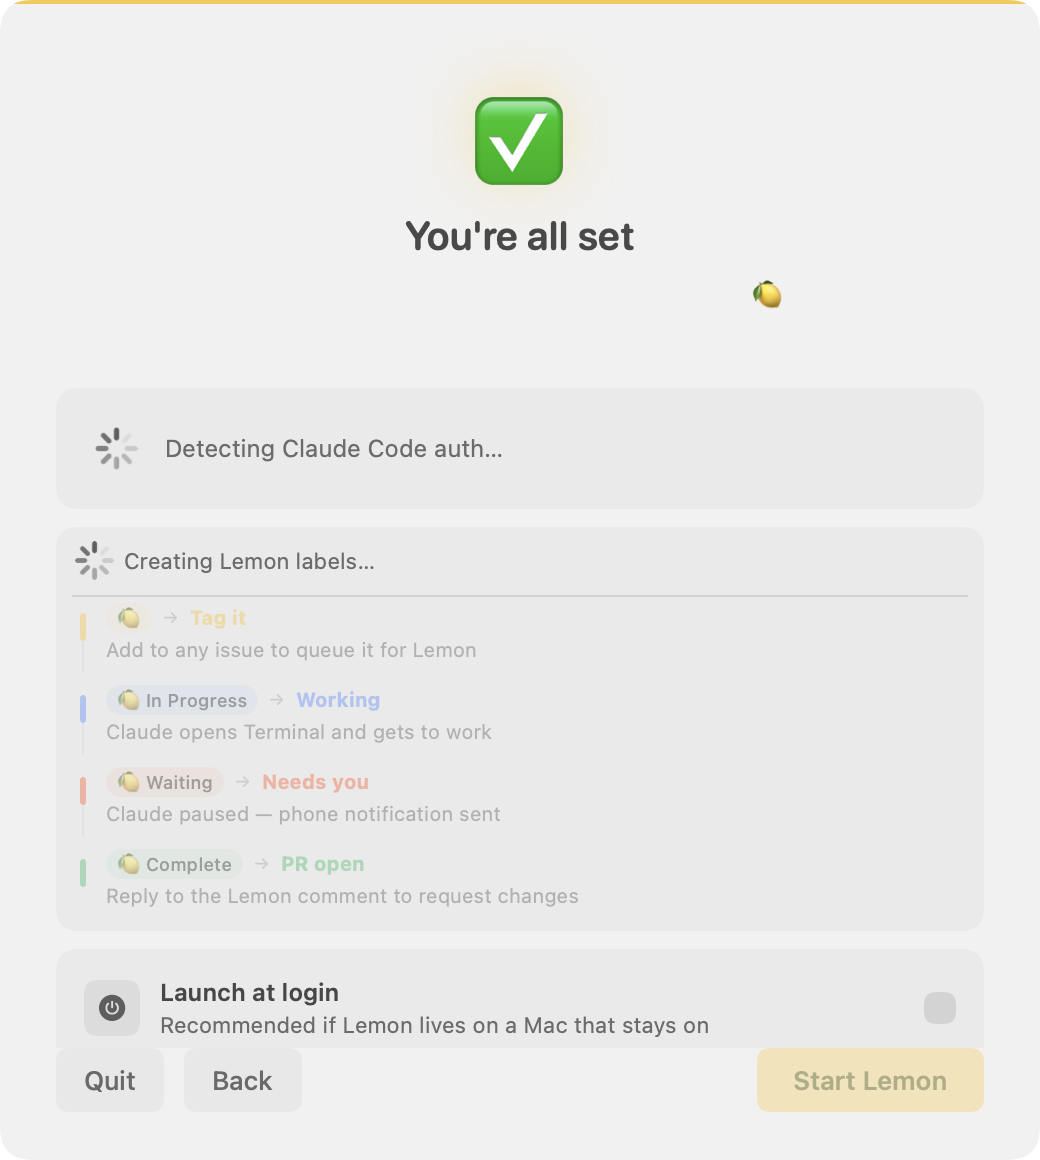
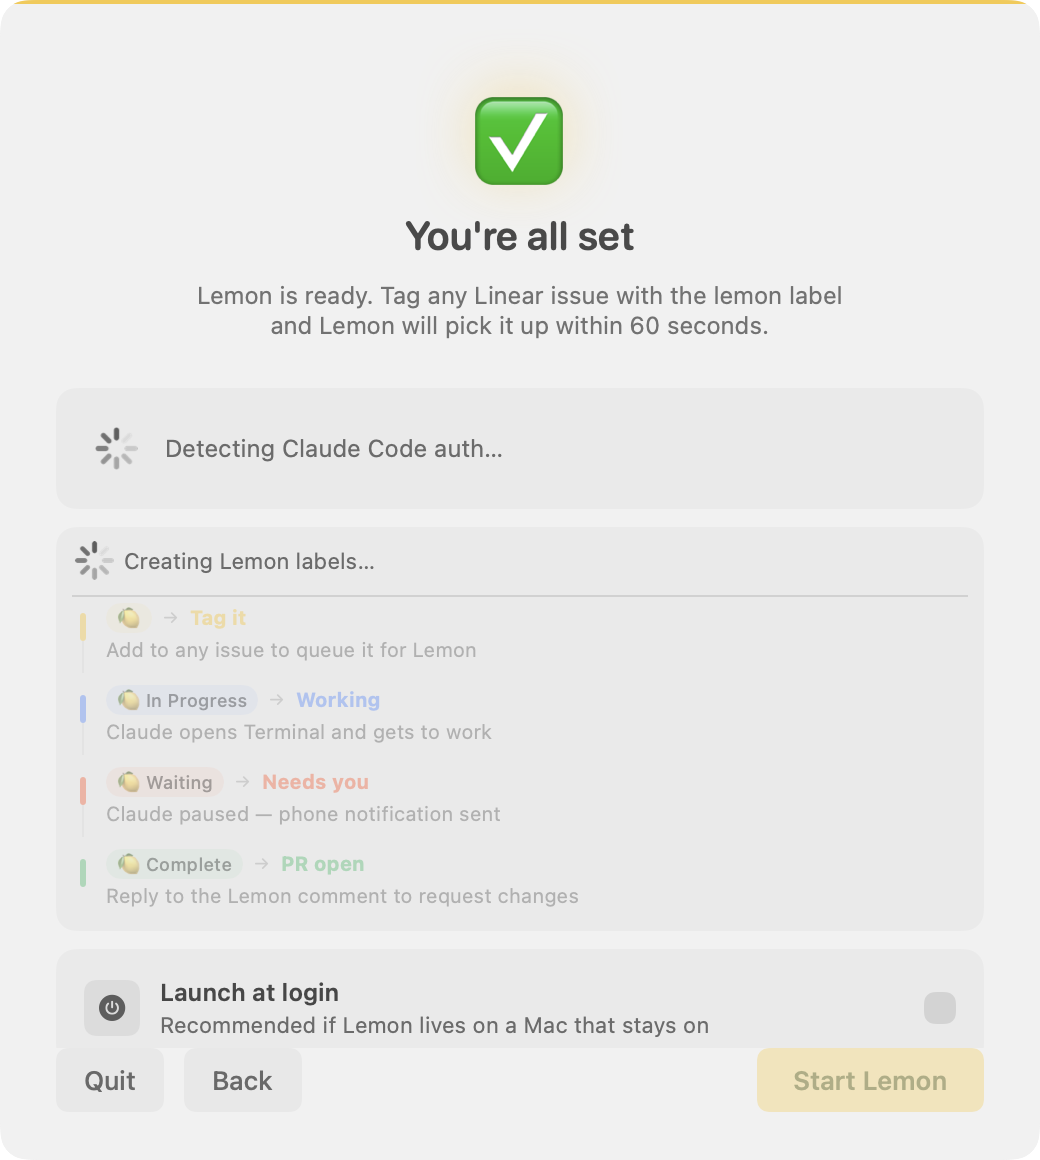
Big edit pass: tmux PATH bug, site polish, real screenshots, MLX credit
Bug fixes:
- WorktreeRunner.runSync + .shell now use zsh -l -c (login shell) so
  Homebrew's PATH on Apple Silicon (/opt/homebrew/bin) is sourced from
  .zprofile. The onboarding tool check already used -l and correctly
  found tmux; the runtime didn't, so a clean install hit "tmux not
  found" the moment a 🍋 session started, despite tmux being installed.
- OnboardingView Ready subtitle: dropped the 🍋 emoji that caused a
  smoke-render artifact (emoji glyph painted before surrounding system
  text reached the buffer, leaving a stray lemon hovering on its own).

Site copy + structure:
- License: MIT → Apache 2.0 across dateline, footer, closing pitch.
  LICENSE file was already Apache 2.0; only the site had stale refs.
- Stats strip "0 keys leave / Linear is the only egress" was wrong —
  Claude Code calls GitHub etc. via your session. Reworded to "0 lines
  of telemetry. Lemon's only network call is Linear; everything else
  is your Claude session."
- Workflow step 3: "Reply when you're back at your desk" → "Reply on
  a walk, or pick up the terminal session back at your desk."
- "Local AI is not optional" → "Made for Apple silicon." Less prudish,
  more truthful — local model is the whole point and Apple silicon is
  what makes it cheap. Body copy expanded to credit the silence
  detector + obvious-confirmation auto-accept + unstick-dumb-prompts
  jobs explicitly.
- Dedication mark (lemon ❤ Linear) moved from BEFORE the 4-step grid
[…]

Changed region(s): [[0.1846, 0.2483, 0.8, 0.3103]]

diff --git a/docs/index.html b/docs/index.html
@@ -138,18 +138,22 @@
   /* ---------- Hero — magazine cover ---------- */
 
   .hero {
-    padding: 16px 0 80px;
+    padding: 8px 0 72px;
     position: relative;
   }
   .hero-grid {
     display: grid;
-    grid-template-columns: 7fr 5fr;
-    gap: 64px;
+    grid-template-columns: 1.15fr 1fr;
+    gap: 52px;
     align-items: center;
   }
   .hero-photo {
     position: relative;
     margin: 0;
+    /* let the photo lean slightly into the gutter so the lemon doesn't get
+       isolated against the right column's text wall */
+    margin-left: -3%;
+    margin-right: -2%;
   }
   .hero-photo img {
     width: 100%;
@@ -181,30 +185,31 @@
   .hero-stand {
     font-family: var(--display);
     font-weight: 500;
-    font-variation-settings: "opsz" 72;
-    font-size: clamp(28px, 3.5vw, 44px);
-    line-height: 1.15;
-    letter-spacing: -0.018em;
+    font-variation-settings: "opsz" 60;
+    font-size: clamp(22px, 2.6vw, 32px);
+    line-height: 1.2;
+    letter-spacing: -0.012em;
     color: var(--ink);
-    margin-bottom: 22px;
+    margin-bottom: 18px;
+    max-width: 22ch;
   }
   .hero-stand strong {
     font-weight: 700;
     font-style: italic;
     color: var(--lemon-deep);
-    font-variation-settings: "opsz" 96;
+    font-variation-settings: "opsz" 72;
   }
   .hero-coda {
     font-family: var(--display);
     font-style: italic;
     font-weight: 400;
-    font-size: clamp(18px, 2vw, 24px);
-    line-height: 1.3;
+    font-size: clamp(15px, 1.5vw, 19px);
+    line-height: 1.4;
     color: var(--ink-soft);
     border-left: 3px solid var(--lemon);
-    padding-left: 16px;
-    margin-bottom: 30px;
-    max-width: 36ch;
+    padding-left: 14px;
+    margin-bottom: 26px;
+    max-width: 32ch;
   }
   .hero-coda em {
     font-style: italic;
@@ -438,6 +443,33 @@
     gap: 14px;
   }
   .plate-caption b { color: var(--ink); font-weight: 700; }
+
+  /* ---------- Exhibit (centered solo plate) ---------- */
+
+  .exhibit {
+    padding: 12px 0;
+  }
+  .exhibit-caption {
+    font-family: var(--display);
+    font-style: italic;
+    font-weight: 400;
+    font-size: 18px;
+    line-height: 1.45;
+    color: var(--ink-soft);
+    text-align: center;
+    max-width: 50ch;
+    margin: 28px auto 0;
+  }
+  .exhibit-caption em {
+    font-family: var(--mono);
+    font-style: normal;
+    font-size: 13px;
+    text-transform: uppercase;
+    letter-spacing: 0.08em;
+    color: var(--ink);
+    border-bottom: 1px dashed var(--rule);
+    padding-bottom: 1px;
+  }
 
   /* ---------- Code block (install) ---------- */
 
@@ -805,17 +837,12 @@
     <div class="dateline reveal d3">
       <span><b>Issue:</b> No. 1 · Menu-bar glue for Claude Code + Linear</span>
       <span><b>Stack:</b> SwiftUI · Linear API · Claude Code · MLX</span>
-      <span><b>License:</b> MIT</span>
+      <span><b>License:</b> Apache 2.0</span>
     </div>
   </section>
 
   <!-- ============== THE 🍋 WORKFLOW ============== -->
   <section id="workflow" aria-labelledby="lifecycle-h">
-    <figure class="dedication" aria-label="Lemon loves Linear">
-      <img src="img/lemon-linear.png" alt="A lemon, a heart, the Linear mark — Lemon loves Linear." />
-      <figcaption>For Linear, who already knows what work needs doing.</figcaption>
-    </figure>
-
     <span class="eyebrow">The 🍋 Workflow</span>
     <h2 id="lifecycle-h" class="section-heading">Four labels, one feedback loop.</h2>
     <p class="section-lede">
@@ -845,7 +872,7 @@
         <div class="chip warn">🍋 Waiting</div>
         <div class="label">Stuck</div>
         <h3>It calls for you.</h3>
-        <p>Hit an ambiguous choice? Claude pauses, the label flips, your phone gets a push. Reply when you&rsquo;re back at your desk.</p>
+        <p>Hit an ambiguous choice? Claude pauses, the label flips, your phone gets a push. Reply on a walk, or pick up the terminal session back at your desk.</p>
       </article>
       <article class="step reveal d3">
         <span class="num">04</span>
@@ -855,6 +882,11 @@
         <p>Lemon posts a Linear comment with the PR link and a one-paragraph summary. Reply to the comment to request revisions.</p>
       </article>
     </div>
+
+    <figure class="dedication" aria-label="Lemon loves Linear">
+      <img src="img/lemon-linear.png" alt="A lemon, a heart, the Linear mark — Lemon loves Linear." />
+      <figcaption>For Linear, who already knows what work needs doing.</figcaption>
+    </figure>
   </section>
 
   <!-- ============== HOW IT WORKS ============== -->
@@ -883,20 +915,20 @@
         </div>
       </div>
       <div class="plate" style="transform: rotate(-1deg);">
-        <img src="img/list.png" alt="Lemon&rsquo;s menu bar popover showing active and recent sessions" />
+        <img src="img/live-list.png" alt="The Lemon popover on a real desktop with the menu bar visible. HRP-37 is in Planning state. Next poll in 13s." />
         <div class="plate-caption">
-          <span><b>Plate 1.</b> Popover &mdash; active &amp; recent</span>
-          <span>Citrus accent on the trigger bar.</span>
+          <span><b>Plate 1.</b> Popover &mdash; live, with menu bar grounding</span>
+          <span>HRP-37 picked up, planning.</span>
         </div>
       </div>
     </div>
 
     <div class="spread flip" style="margin-top: 100px;">
       <div class="plate flip" style="transform: rotate(0.8deg);">
-        <img src="img/detail-executing.png" alt="A session detail showing live console output, AI summary, and Stop / Join controls" />
+        <img src="img/live-detail.png" alt="Session detail for HRP-37 mid-planning. The console shows [lemon] starting session and the discovered repos." />
         <div class="plate-caption">
-          <span><b>Plate 2.</b> Session detail</span>
-          <span>Stream of <code style="font-family:var(--mono);color:var(--lemon-deep)">[lemon]</code> and <code style="font-family:var(--mono);color:#3a7a4a">[gemma]</code> lines.</span>
+          <span><b>Plate 2.</b> Session detail &mdash; mid-planning</span>
+          <span>Live <code style="font-family:var(--mono);color:var(--lemon-deep)">[lemon]</code> lines, Join + Stop ready.</span>
         </div>
       </div>
       <div class="spread-text">
@@ -938,7 +970,7 @@
       </div>
       <div class="stat reveal d3">
         <div class="num">0</div>
-        <div class="label">Keys leave your machine.<br/>Linear is the only egress.</div>
+        <div class="label">Lines of telemetry.<br/>Lemon&rsquo;s only network call is Linear; everything else is your Claude session.</div>
       </div>
     </div>
   </section>
@@ -956,11 +988,13 @@
 
     <div class="spread" style="margin-top: 36px;">
       <div class="spread-text">
-        <h2>Local AI is <em>not optional.</em></h2>
+        <h2>Made for <em>Apple silicon.</em></h2>
         <p>
-          The whole point of Lemon is the silence detector. Without a local model
-          watching, you don&rsquo;t get the 🍋&nbsp;Waiting auto-pause. So onboarding
-          gates Continue on a downloaded Gemma model and a SwiftLM binary.
+          A big chunk of Lemon&rsquo;s value is the silence detector &mdash;
+          plus auto-accepting obvious confirmations, plus unsticking
+          dumb prompts that Claude can&rsquo;t see past on its own. All of that
+          needs <strong>a local model running</strong>, which is why
+          onboarding gates Continue on a downloaded Gemma and a SwiftLM binary.
         </p>
         <p>
           Both are pulled inside the wizard. The model is from
@@ -976,7 +1010,7 @@
           ready to paste into Console.app.
         </div>
       </div>
-      <div class="plate" style="transform: rotate(-0.6deg);">
+      <div class="plate" style="transform: rotate(-0.6deg); max-width: 380px; margin-left: auto;">
         <img src="img/onboarding-localai.png" alt="The Local AI onboarding step with Gemma 4B and SwiftLM downloads" />
         <div class="plate-caption">
           <span><b>Plate 3.</b> Local AI setup</span>
@@ -986,7 +1020,7 @@
     </div>
 
     <div class="spread flip" style="margin-top: 90px;">
-      <div class="plate flip" style="transform: rotate(1deg);">
+      <div class="plate flip" style="transform: rotate(1deg); max-width: 380px;">
         <img src="img/onboarding-ready.png" alt="The final Ready step showing Linear label workflow and Claude auth detection" />
         <div class="plate-caption">
           <span><b>Plate 4.</b> Ready check</span>
@@ -1006,6 +1040,32 @@
           Lemon adopts them (fetch-or-create). Colors are advisory — your existing
           ones win.
         </div>
+      </div>
+    </div>
+  </section>
+
+  <!-- ============== SETTINGS SPREAD ============== -->
+  <section aria-labelledby="settings-h">
+    <div class="spread flip">
+      <div class="plate flip" style="transform: rotate(-0.6deg); max-width: 360px; margin-left: auto;">
+        <img src="img/live-settings.png" alt="Lemon Settings pane showing General, Linear (Connected), Workspace (HRP), and Local AI sections with Gemma model + SwiftLM Ready and the Self-test row." />
+        <div class="plate-caption">
+          <span><b>Plate 5.</b> Settings</span>
+          <span>SwiftLM <code style="font-family:var(--mono);color:var(--lemon-deep)">b648</code> · Self-test ready.</span>
+        </div>
+      </div>
+      <div class="spread-text">
+        <h2 id="settings-h">Everything <em>in one pane.</em></h2>
+        <p>
+          Settings is the single canonical place to check what Lemon is
+          configured against &mdash; <strong>Linear key</strong>,
+          <strong>workspace mapping</strong>, <strong>Gemma model path</strong>,
+          <strong>SwiftLM binary</strong> &mdash; and to fire the on-demand
+          Self-test before you trigger a real session.
+        </p>
+        <p>
+          <em>Re-run setup</em> in the corner if anything ever needs refreshing.
+        </p>
       </div>
     </div>
   </section>
@@ -1064,15 +1124,14 @@
         <div class="credit-detail">by SharpAI. OpenAI-compatible MLX inference server in pure Swift. Lemon ships build <code>b648</code> from their releases.</div>
       </a>
 
-      <a class="credit" href="https://huggingface.co/mlx-community" target="_blank" rel="noopener">
-        <div class="credit-label">The weights</div>
-        <div class="credit-name">mlx-community <span class="arrow">↗</span></div>
+      <a class="credit" href="https://github.com/ml-explore/mlx" target="_blank" rel="noopener">
+        <div class="credit-label">The framework</div>
+        <div class="credit-name">MLX <span class="arrow">↗</span></div>
         <div class="credit-detail">
-          On HuggingFace. The quantized Gemma 4 you&rsquo;ll actually download:<br/>
-          <code>
-            <a href="https://huggingface.co/mlx-community/gemma-4-e4b-it-4bit" target="_blank" rel="noopener">gemma-4-e4b-it-4bit</a><br/>
-            <a href="https://huggingface.co/mlx-community/gemma-4-e2b-it-4bit" target="_blank" rel="noopener">gemma-4-e2b-it-4bit</a>
-          </code>
+          Apple&rsquo;s open-source ML framework for Apple Silicon. SwiftLM
+          maps Gemma onto Metal through it; quants come via
+          <strong>mlx-community</strong> on HuggingFace:
+          <code>gemma-4-e4b-it-4bit<br/>gemma-4-e2b-it-4bit</code>
         </div>
       </a>
 
@@ -1172,7 +1231,7 @@
         </p>
         <div class="marginalia" style="margin-top: 18px;">
           <b>Built by</b> Frank Kline as personal workflow tooling.<br/>
-          Open source under MIT. Pull requests welcome.
+          Open source under Apache 2.0. Pull requests welcome.
         </div>
       </div>
     </div>
@@ -1182,7 +1241,7 @@
 
 <footer>
   <div class="wrap footer-grid">
-    <div>Lemon · Vol. 1 · 2026 · MIT License</div>
+    <div>Lemon · Vol. 1 · 2026 · Apache 2.0</div>
     <div>
       <a href="https://github.com/frankcline/lemon">Source ↗</a>
       &nbsp;·&nbsp;

diff --git a/app/Lemon/WorktreeRunner.swift b/app/Lemon/WorktreeRunner.swift
@@ -543,11 +543,17 @@ final class WorktreeRunner: @unchecked Sendable {
 
     // MARK: - Synchronous shell helper (used for setup/teardown, not in async hot paths)
 
+    // Use a login shell (`zsh -l -c`) so Homebrew's PATH on Apple Silicon
+    // (/opt/homebrew/bin) is sourced from .zprofile. Without -l, tools like
+    // tmux installed via `brew install` are invisible at runtime even though
+    // the onboarding step (which also uses -l) correctly detects them — that
+    // mismatch caused "tmux not found" failures live, despite tmux being
+    // installed and verified at setup.
     @discardableResult
     private func runSync(_ command: String) -> Bool {
         let p = Process()
         p.executableURL = URL(fileURLWithPath: "/bin/zsh")
-        p.arguments = ["-c", command]
+        p.arguments = ["-l", "-c", command]
         p.standardOutput = Pipe()
         p.standardError = Pipe()
         try? p.run()
@@ -764,12 +770,13 @@ final class WorktreeRunner: @unchecked Sendable {
 
     // MARK: - Shell helper
 
+    // Login shell for the same PATH reason as runSync above.
     @discardableResult
     private func shell(_ command: String) async throws -> String {
         try await withCheckedThrowingContinuation { continuation in
             let p = Process()
             p.executableURL = URL(fileURLWithPath: "/bin/zsh")
-            p.arguments = ["-c", command]
+            p.arguments = ["-l", "-c", command]
             let pipe = Pipe()
             p.standardOutput = pipe
             p.standardError = pipe

diff --git a/app/Lemon/Onboarding/OnboardingView.swift b/app/Lemon/Onboarding/OnboardingView.swift
@@ -1221,7 +1221,7 @@ private struct ReadyStep: View {
         StepShell(
             emoji: "✅",
             title: "You're all set",
-            subtitle: "Lemon is ready. Label any Linear issue with 🍋\nand Lemon will pick it up within 60 seconds.",
+            subtitle: "Lemon is ready. Tag any Linear issue with the lemon label\nand Lemon will pick it up within 60 seconds.",
             backAction: onBack,
             nextLabel: "Start Lemon",
             nextEnabled: canStart,
